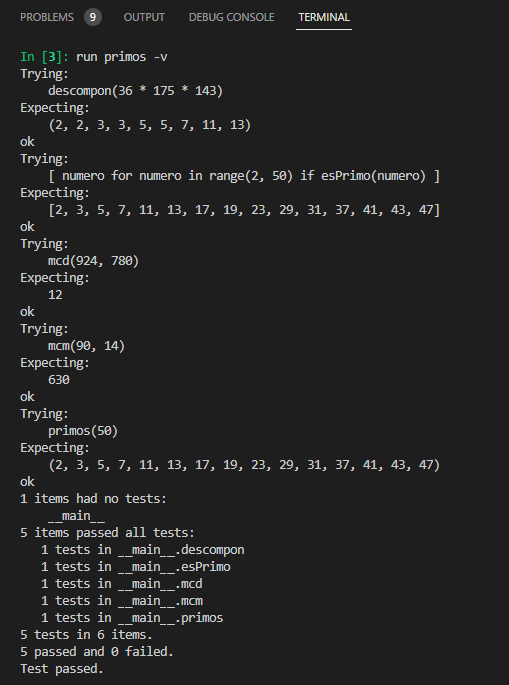
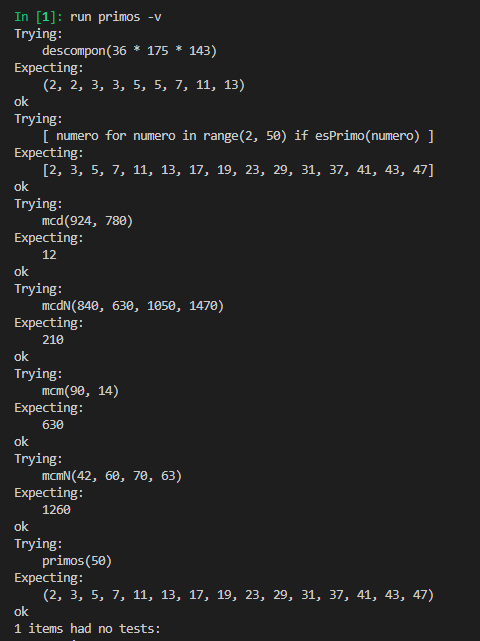
Final

diff --git a/README.md b/README.md
@@ -70,6 +70,7 @@ Inserte a continuación una captura de pantalla que muestre el resultado de ejec
 *verbosa*, de manera que se muestre el resultado de la ejecución de los tests unitarios.
 
 <img src="Imagen_1.PNG" align="center">
+<img src="Imagen_2.PNG" align="center">
 
 #### Código desarrollado
 
@@ -166,6 +167,49 @@ def mcd(numero1, numero2):
         mcd = mcd * factor
 
     return mcd
+
+def mcmN(*numeros):
+    """
+    Devuelve el mínimo común múltiplo de sus argumentos.    
+
+    >>> mcmN(42, 60, 70, 63)
+    1260
+    """
+    mcm = 1
+    f_contados = {}
+    for numero in numeros:
+        factores = descompon(numero)
+        for factor in set(factores):
+            count = factores.count(factor)
+            if factor not in f_contados or count > f_contados[factor]:
+                f_contados[factor] = count
+
+    for factor, count in f_contados.items():
+        mcm *= factor ** count
+
+    return mcm                
+
+def mcdN(*numeros):
+    """
+    Devuelve el máximo común divisor de sus argumentos.
+
+    >>> mcdN(840, 630, 1050, 1470)
+    210
+    """
+    mcd = 1
+
+    f_contados = {}
+    for numero in numeros:
+        factores = descompon(numero)
+        for factor in set(factores):
+            count = factores.count(factor)
+            if factor not in f_contados or count < f_contados[factor]:
+                f_contados[factor] = count
+
+    for factor, count in f_contados.items():
+        mcd *= factor ** count
+
+    return mcd 
 
 import doctest
 
